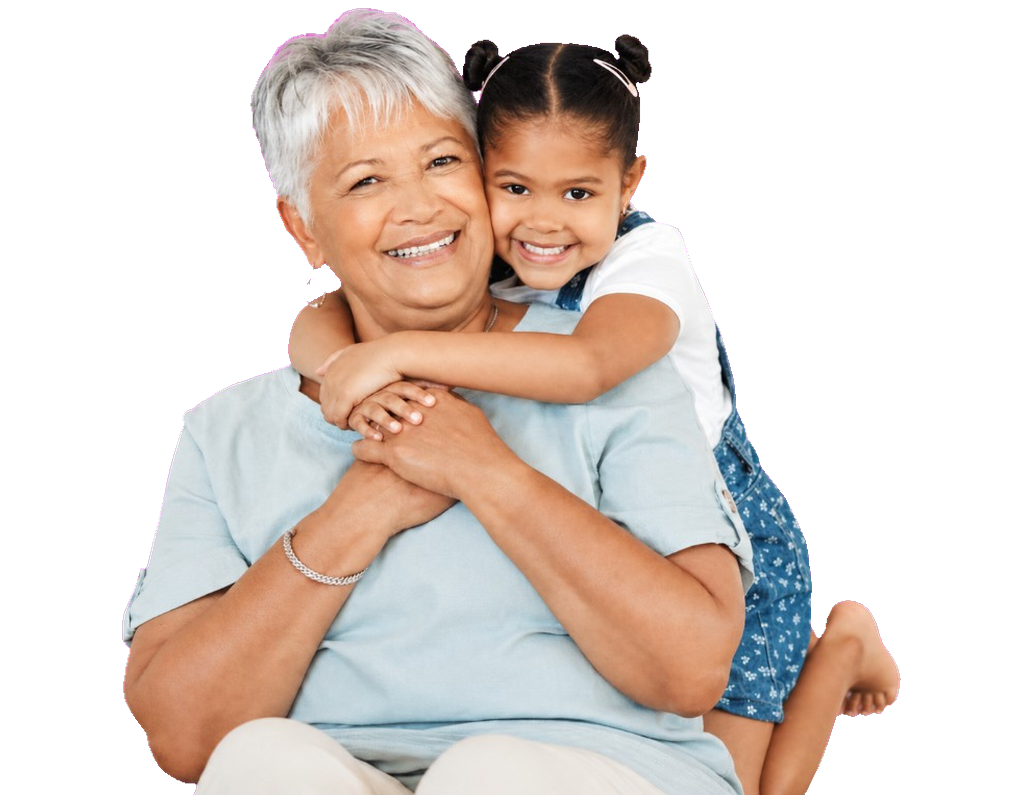
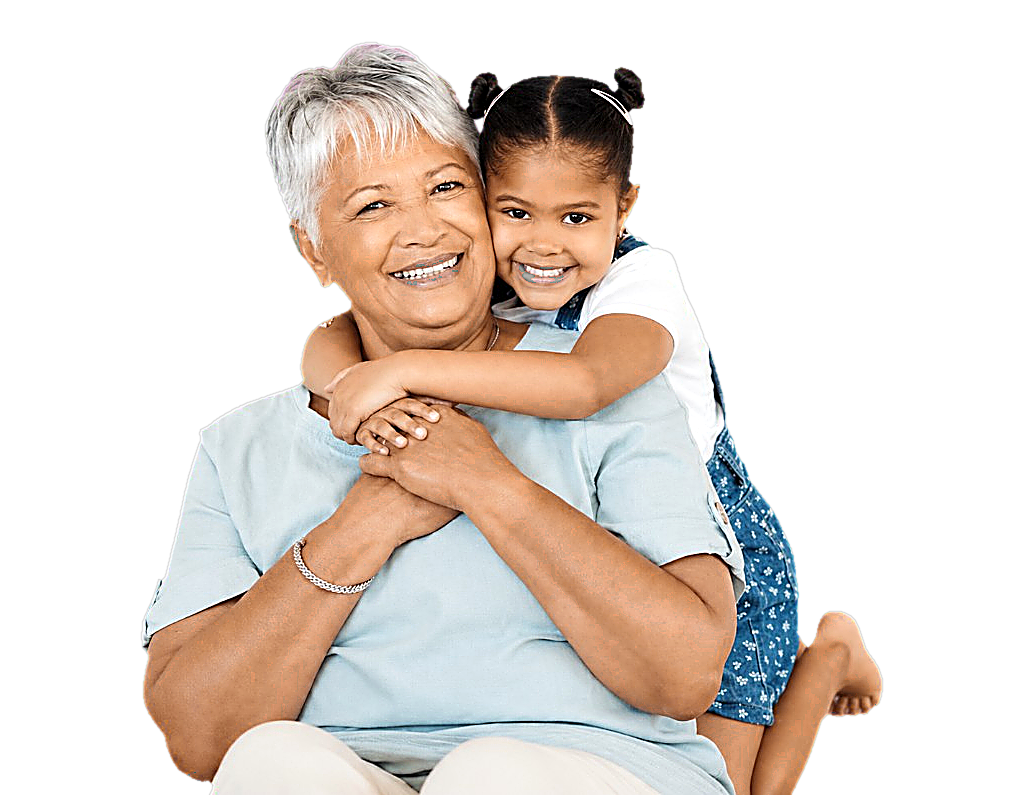
Clean magenta fringe and sharpen grandma-grandson hero cutout.
Also scales the slide down so faces stay clearer without oversizing the portrait.

Changed region(s): [[0.0938, 0.0, 0.9062, 1.0]]

diff --git a/en/index.html b/en/index.html
@@ -217,7 +217,7 @@
     }
     .carousel-slide:nth-child(4) img {
       object-position: center top;
-      transform: scale(1.72) translateY(-6%);
+      transform: scale(1.38) translateY(-2%);
       transform-origin: center top;
     }
     .carousel-slide:nth-child(5) img {
@@ -258,7 +258,7 @@
     .carousel-slide:nth-child(4).active img {
       animation: none;
       object-position: center top;
-      transform: scale(1.72) translateY(-6%);
+      transform: scale(1.38) translateY(-2%);
       transform-origin: center top;
     }
     .carousel-slide:nth-child(5).active img {
@@ -309,7 +309,7 @@
       .carousel-slide:nth-child(4) img,
       .carousel-slide:nth-child(4).active img {
         object-position: center top;
-        transform: scale(1.48) translateY(-4%);
+        transform: scale(1.22) translateY(-1%);
       }
       .carousel-slide:nth-child(5) img,
       .carousel-slide:nth-child(5).active img {

diff --git a/index.html b/index.html
@@ -204,7 +204,7 @@
     }
     .carousel-slide:nth-child(4) img {
       object-position: center top;
-      transform: scale(1.72) translateY(-6%);
+      transform: scale(1.38) translateY(-2%);
       transform-origin: center top;
     }
     .carousel-slide:nth-child(5) img {
@@ -245,7 +245,7 @@
     .carousel-slide:nth-child(4).active img {
       animation: none;
       object-position: center top;
-      transform: scale(1.72) translateY(-6%);
+      transform: scale(1.38) translateY(-2%);
       transform-origin: center top;
     }
     .carousel-slide:nth-child(5).active img {
@@ -296,7 +296,7 @@
       .carousel-slide:nth-child(4) img,
       .carousel-slide:nth-child(4).active img {
         object-position: center top;
-        transform: scale(1.48) translateY(-4%);
+        transform: scale(1.22) translateY(-1%);
       }
       .carousel-slide:nth-child(5) img,
       .carousel-slide:nth-child(5).active img {

diff --git a/sources/index.html b/sources/index.html
@@ -224,7 +224,7 @@
     }
     .carousel-slide:nth-child(4) img {
       object-position: center top;
-      transform: scale(1.72) translateY(-6%);
+      transform: scale(1.38) translateY(-2%);
       transform-origin: center top;
     }
     .carousel-slide:nth-child(5) img {
@@ -265,7 +265,7 @@
     .carousel-slide:nth-child(4).active img {
       animation: none;
       object-position: center top;
-      transform: scale(1.72) translateY(-6%);
+      transform: scale(1.38) translateY(-2%);
       transform-origin: center top;
     }
     .carousel-slide:nth-child(5).active img {
@@ -316,7 +316,7 @@
       .carousel-slide:nth-child(4) img,
       .carousel-slide:nth-child(4).active img {
         object-position: center top;
-        transform: scale(1.48) translateY(-4%);
+        transform: scale(1.22) translateY(-1%);
       }
       .carousel-slide:nth-child(5) img,
       .carousel-slide:nth-child(5).active img {
